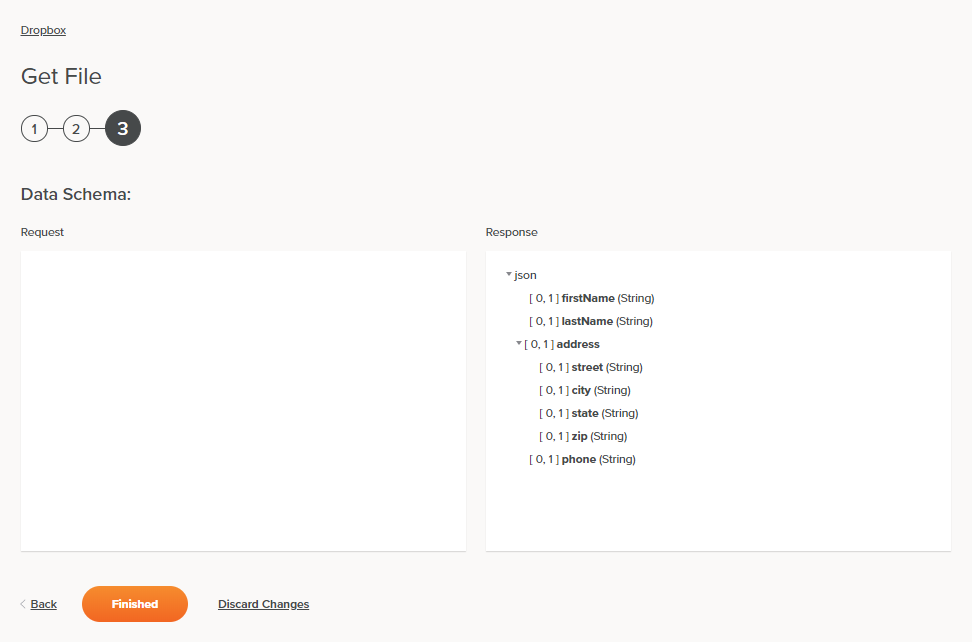
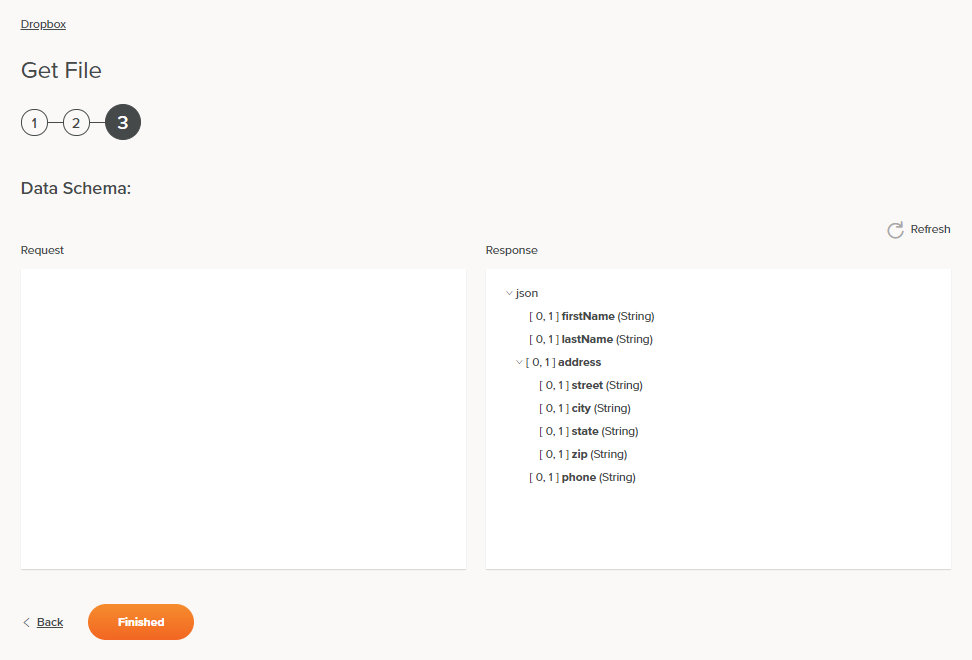
Update for Refresh option - See https://jitterbit.atlassian.net/browse/DOCS-1960

diff --git a/docs/fetch-file-activity.md b/docs/fetch-file-activity.md
@@ -110,6 +110,10 @@ choose from.
   The Dropbox connector uses the [Dropbox Java SDK API](https://dropbox.github.io/dropbox-sdk-java/api-docs/v2.1.x/).
   Refer to the SDK documentation for information on the schema fields.
 
+- **Refresh:** Click the refresh icon ![Refresh icon](./assets/refresh-icon.png) or the word **Refresh** to
+  regenerate schemas from the endpoint. This action also regenerates the schema in other locations throughout
+  the project where the same schema is referenced, such as in an adjacent transformation.
+
 - **Back:** Click to return to the previous step and temporarily store the configuration.
 
 - **Finished:** Click to save the configuration for all steps and close the activity configuration.

diff --git a/docs/get-file-activity.md b/docs/get-file-activity.md
@@ -147,6 +147,10 @@ choose from.
   The Dropbox connector uses the [Dropbox Java SDK API](https://dropbox.github.io/dropbox-sdk-java/api-docs/v2.1.x/).
   Refer to the SDK documentation for information on the schema fields.
 
+- **Refresh:** Click the refresh icon ![Refresh icon](./assets/refresh-icon.png) or the word **Refresh** to
+  regenerate schemas from the endpoint. This action also regenerates the schema in other locations throughout
+  the project where the same schema is referenced, such as in an adjacent transformation.
+
 - **Back:** Click to return to the previous step and temporarily store the configuration.
 
 - **Finished:** Click to save the configuration for all steps and close the activity configuration.

diff --git a/docs/process-file-activity.md b/docs/process-file-activity.md
@@ -150,6 +150,10 @@ choose from.
   The Dropbox connector uses the [Dropbox Java SDK API](https://dropbox.github.io/dropbox-sdk-java/api-docs/v2.1.x/).
   Refer to the SDK documentation for information on the schema fields.
 
+- **Refresh:** Click the refresh icon ![Refresh icon](./assets/refresh-icon.png) or the word **Refresh** to
+  regenerate schemas from the endpoint. This action also regenerates the schema in other locations throughout
+  the project where the same schema is referenced, such as in an adjacent transformation.
+
 - **Back:** Click to return to the previous step and temporarily store the configuration.
 
 - **Finished:** Click to save the configuration for all steps and close the activity configuration.

diff --git a/docs/put-file-activity.md b/docs/put-file-activity.md
@@ -111,6 +111,10 @@ choose from.
   The Dropbox connector uses the [Dropbox Java SDK API](https://dropbox.github.io/dropbox-sdk-java/api-docs/v2.1.x/).
   Refer to the SDK documentation for information on the schema fields.
 
+- **Refresh:** Click the refresh icon ![Refresh icon](./assets/refresh-icon.png) or the word **Refresh** to
+  regenerate schemas from the endpoint. This action also regenerates the schema in other locations throughout
+  the project where the same schema is referenced, such as in an adjacent transformation.
+
 - **Back:** Click to return to the previous step and temporarily store the configuration.
 
 - **Finished:** Click to save the configuration for all steps and close the activity configuration.
